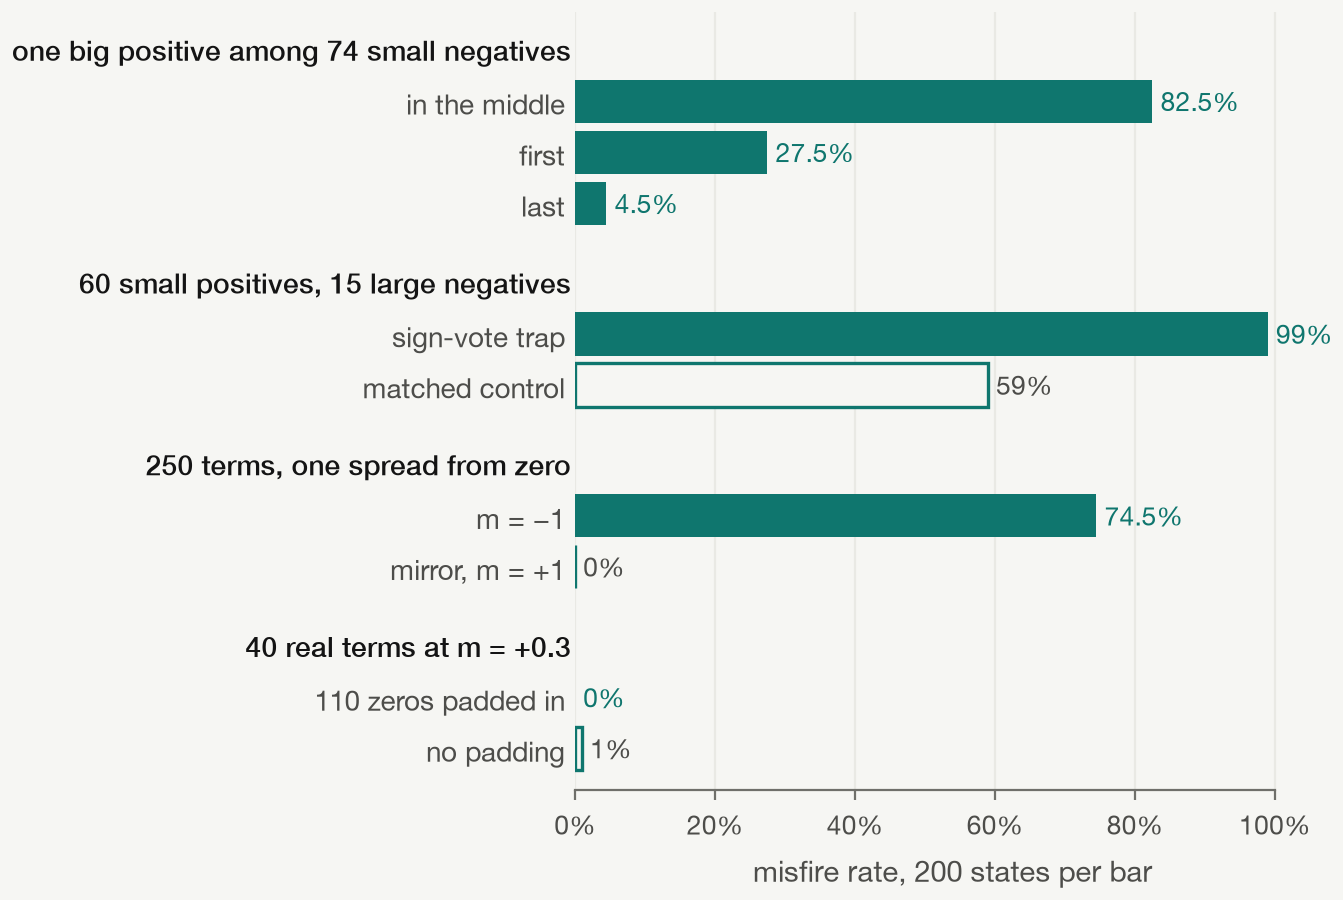
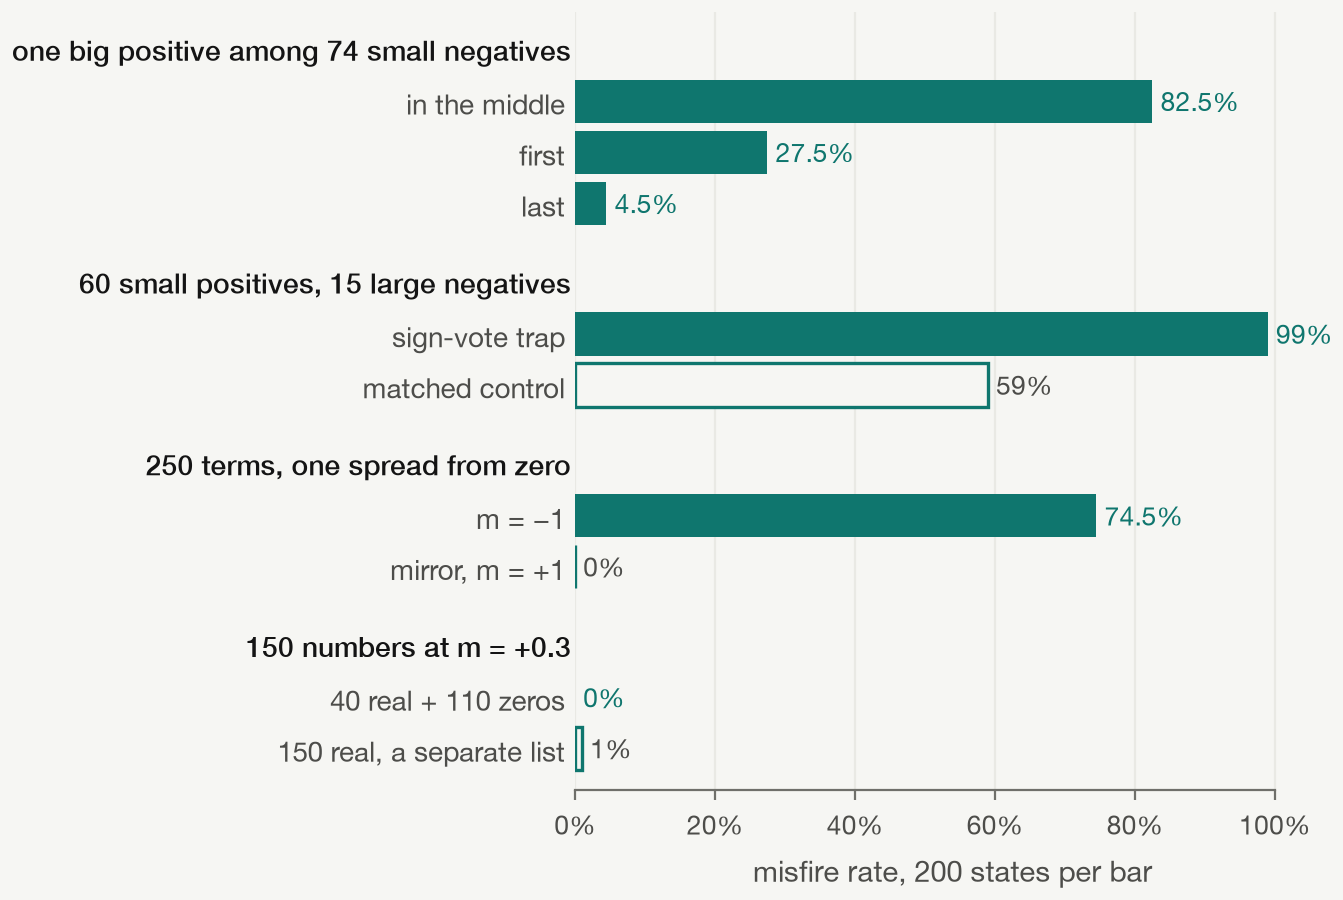
:bug: fix[analysis]: graded simulator's real misfire rate; padding trap labels; 31.2 and 35.6

Changed region(s): [[0.1832, 0.6844, 0.4274, 0.8711]]

diff --git a/src/jevrons/stage6c.py b/src/jevrons/stage6c.py
@@ -137,6 +137,15 @@ def sign_disagreement(wa, ws, X):
     return float(np.mean(((X @ wa[0] + wa[1]) > 0) != ((X @ ws[0] + ws[1]) > 0)))
 
 
+def misfire(w, X, neuron):
+    """Hidden misfire rate under a CurveNeuron as the network sees it: a graded neuron's p is deterministic, so count
+    the answers on the wrong side of 0.5; a sampled one flips a coin, so take its expectation."""
+    if not neuron.graded:
+        return expected_misfire(w, X, neuron)
+    z = X @ w[0] + w[1]
+    return float(np.mean((z > 0) != (neuron(X, w[0], w[1]) >= 0.5)))
+
+
 def expected_misfire(w, X, neuron):
     """Mean P(hidden answer disagrees with the true sign) under a CurveNeuron (its expectation, not a sample)."""
     z = X @ w[0] + w[1]
@@ -206,7 +215,7 @@ def run_bend():
                 gap = 100 * (SWAP38_EXACT - np.mean([acc(twin, Xv, yv, e) for e in ev]))
                 res["sim"][f"{'graded' if graded else 'binary'} lam={lam} seed={seed}"] = {
                     "graded": graded, "lam": lam, "seed": seed, "swap_gap_pts": float(gap),
-                    "twin_hidden_misfire": expected_misfire(twin, Xv, nrn), "trained_hidden_misfire": expected_misfire(wa, Xv, nrn),
+                    "twin_hidden_misfire": misfire(twin, Xv, nrn), "trained_hidden_misfire": misfire(wa, Xv, nrn),
                     "trained_acc_on_neuron": float(np.mean([acc(wa, Xv, yv, e) for e in ev])),
                     "bend": bend(i5, wa, twin), "hidden_sign_disagreement_val": sign_disagreement(wa, twin, Xv), "_w": wa}
     # noise floor: two binary runs at the same lam differ only in the neuron's coin flips

diff --git a/src/jevrons/figures.py b/src/jevrons/figures.py
@@ -797,9 +797,9 @@ def traps():
               ("250 terms, one spread from zero", [
                   ("m = −1", fam["long"]["trap_misfire"], True),
                   ("mirror, m = +1", fam["long"]["control_misfire"], False)]),
-              ("40 real terms at m = +0.3", [
-                  ("110 zeros padded in", fam["zeros"]["trap_misfire"], True),
-                  ("no padding", fam["zeros"]["control_misfire"], False)])]
+              ("150 numbers at m = +0.3", [
+                  ("40 real + 110 zeros", fam["zeros"]["trap_misfire"], True),
+                  ("150 real, a separate list", fam["zeros"]["control_misfire"], False)])]
     fig, ax = S.figure(4.5)
     y, ticks, labels = 0, [], []
     for head, bars in groups:

diff --git a/docs/results/stage6c-weights-probe.md b/docs/results/stage6c-weights-probe.md
@@ -2,7 +2,7 @@
 
 2026-09-27 · offline only · no Jev or Ollaya calls · $0
 
-A more faithful neuron does give weights closer to the exact solution, but only at the ends of the range, and Jev arms bend much farther than their neuron's misfire rate explains. On 3 vs 8, the plain Jev network's first-layer change is 1.77× its exact twin's change away from it. Arm E, the most faithful Jev neuron (swap gap 4.6 points), still bends 1.13; fine-tuned laya (gap 1 point) bends 0.31. A simulated neuron with Jev's own measured curve and the same misfire rate bends only 0.58 (graded p) or 0.88 (sampled yes/no). The weights don't read out Jev's threshold drift. The upward drift of Jev-trained sums that [Jev's quirks](stage6b-jev-quirks.md) couldn't explain does reproduce in simulation, and the cause is Jev's p never reaching 0 or 1, not its yes-lean.
+A more faithful neuron does give weights closer to the exact solution, but only at the ends of the range, and Jev arms bend much farther than their neuron's misfire rate explains. On 3 vs 8, the plain Jev network's first-layer change is 1.77× its exact twin's change away from it. Arm E, the most faithful Jev neuron (swap gap 4.6 points), still bends 1.13; fine-tuned laya (gap 1 point) bends 0.31. A simulated neuron with Jev's own measured curve and a similar misfire rate bends only 0.58 (graded p) or 0.88 (sampled yes/no). The weights don't read out Jev's threshold drift. The upward drift of Jev-trained sums that [Jev's quirks](stage6b-jev-quirks.md) couldn't explain does reproduce in simulation, and the cause is Jev's p never reaching 0 or 1, not its yes-lean.
 
 Code: `src/jevrons/stage6c_calls.py` streams the two-digit, ten-digit and two-question neuron journals' validation and test calls into `runs/stage6c/calls.npz` (804,000 calls, 10 s). `src/jevrons/stage6c.py` runs the analyses (`uv run python -m jevrons.stage6c [bend misfire lean readoff pixels]`, about 2 minutes). Numbers: `runs/stage6c/*.json`.
 
@@ -29,11 +29,11 @@ Two controls were added, both local and both on the two-digit recipe:
 | Laya as a neuron, laya-hidden (scalar) | 42.8 | 65% | 1.62 / 0.28 / 1.58 | 2.38 / 0.52 | 3.87 / −0.42 | 3.1× | 26.3% |
 | Laya as a neuron, all-laya (scalar) | 42.8 | 65% | 1.40 / 0.34 / 1.38 | 1.32 / 0.40 | 1.18 / −0.42 | 0.6× | 26.0% |
 | 10 laya-neuron (sparse, own twin) | 1.0 | 4.5% | 0.31 / 0.95 / 1.02 | 0.12 / 0.99 | 0.32 / 0.95 | 1.1× | 1.8% |
-| Simulated λ = 1, graded | 1.0 | 15.9% | 0.58 / 0.84 / 1.03 | 0.57 / 0.93 | 0.77 / 0.65 | 0.3× | 11.2% |
+| Simulated λ = 1, graded | 1.0 | 14.6% | 0.58 / 0.84 / 1.03 | 0.57 / 0.93 | 0.77 / 0.65 | 0.3× | 11.2% |
 | Simulated λ = 1, sampled (3 seeds) | 7.2 | 15.9% | 0.88 / 0.79 / 1.42 | 0.81 / 0.83 | 0.81 / 0.56 | 1.2× | 18.9% |
 | Simulated λ = 2, sampled | 20.4 | 29.2% | 1.37 / 0.71 / 1.89 | 0.93 / 0.78 | 1.61 / −0.25 | 3.6× | 27.2% |
 
-The b2 column is |Δb2| divided by the twin's |Δb2|. Every arm moves b2 the same way as its twin (downward). Laya's "misfire" in the laya-as-a-neuron runs is scored against the sign, which its V-shaped curve was never meant to follow.
+The graded simulator's misfire counts its deterministic answers on the wrong side of 0.5 (14.6% at λ = 1); the sampled one's is the expected rate of its coin flips (15.9%). The b2 column is |Δb2| divided by the twin's |Δb2|. Every arm moves b2 the same way as its twin (downward). Laya's "misfire" in the laya-as-a-neuron runs is scored against the sign, which its V-shaped curve was never meant to follow.
 
 With the recipe matched, the Jev arms bend 1.43 (B), 1.48 (C), 1.45 (D) and 1.17 (E). The backward pass alone moves an exact twin 0.71-0.90 away from the two-digit twin. B has the same neuron as plain Jev and bends 0.40 less against the shared twin, so the recipe accounts for as much of the plain-vs-two-question difference as the neuron does.
 

diff --git a/docs/results/stage7-more-data.md b/docs/results/stage7-more-data.md
@@ -2,7 +2,7 @@
 
 2026-09-27 · 1.94M calls · $84.71 · Vercel gateway only (TypeSafe direct out of credits)
 
-A 784-32-10 network of Jev neurons trained through Jev gets 84.6% on 2,000 test images. That's up from 68.5% in the first ten-digit run, and it beats the ~77-79% an exact-neuron network reached on 1,000 images when the sum was done in code. Two things changed at once: 5,000 training images instead of 1,000, and arm E from [the two-question neuron](stage8g-neuron-fixes.md) (yes/no and a neutral choice question averaged in one call). One seed, so the two effects aren't separated. The swap control still collapses: the same architecture trained with an exact neuron gets 83.9% on an exact neuron and 52.6% on Jev, a 31.3-point gap (first ten-digit run: 28.8).
+A 784-32-10 network of Jev neurons trained through Jev gets 84.6% on 2,000 test images. That's up from 68.5% in the first ten-digit run, and it beats the ~77-79% an exact-neuron network reached on 1,000 images when the sum was done in code. Two things changed at once: 5,000 training images instead of 1,000, and arm E from [the two-question neuron](stage8g-neuron-fixes.md) (yes/no and a neutral choice question averaged in one call). One seed, so the two effects aren't separated. The swap control still collapses: the same architecture trained with an exact neuron gets 83.9% on an exact neuron and 52.6% on Jev, a 31.2-point gap (83.85% − 52.65%) (first ten-digit run: 28.8).
 
 Code: `src/jevrons/stage7.py`. Results, weights, curves: `runs/stage7/`. The journal isn't published.
 

diff --git a/docs/results/stage8c-mock-pretrain.md b/docs/results/stage8c-mock-pretrain.md
@@ -39,7 +39,7 @@ Arm E's graded p is much softer than the margin probe's fire curve (λ = 4.5 mea
 
 Training spend counts only training calls. Each validation pass cost $0.93 and each test pass $1.86. With evaluations, this run cost $8.34 and the pretrained-only test $1.86. At equal Jev training spend ($3.7, two epochs), pretrain plus fine-tune leads Jev-only training by 5 points on validation (83.4% against 78.4%). Jev-only training needed two and a half to three times the spend to reach the same validation accuracy.
 
-SimE was a good predictor of Jev for SimE-trained weights: 84.8% on SimE against 83.8% on Jev (test). It was a bad one for exact-trained weights. The local check put the sparse network's configuration trained exact at 35.0% on SimE, and on Jev it got 66.4%. SimE is harsher than Jev on a network that never saw a graded neuron.
+SimE was a good predictor of Jev for SimE-trained weights: 84.8% on SimE against 83.8% on Jev (test). It was a bad one for exact-trained weights. The six-epoch exact-trained sparse network that ran on Jev gets 35.6% on SimE (validation), and 66.4% on Jev. (The local check's own ten-epoch exact network got 35.0% on SimE.) SimE is harsher than Jev on a network that never saw a graded neuron.
 
 ## Per digit (test)
 

diff --git a/docs/results/stage6b-jev-quirks.md b/docs/results/stage6b-jev-quirks.md
@@ -110,7 +110,7 @@ Three traps beat their controls: the sign vote, the long-list yes-lean, and a bi
 
 The position family went the opposite way to its prediction. The error model suggested the final number is overweighted, so a big positive number in the bias slot should drag Jev to yes. Instead, the identical list fools Jev 82.5% of the time when the big number is in the middle, 27.5% when it's first, and 4.5% when it's last. Jev seems to take in a dominant number at either end correctly and misjudge one buried among small terms. The data doesn't say why. The regression's bias-slot weight comes from small natural biases and doesn't extrapolate to one number carrying 98% of the spread.
 
-Zero padding changed nothing, so the large zero-share coefficient in section 1 is a confound in the trained-network data, not a property of Jev.
+Padded lists (40 real terms and 110 zeros) misfired on 0% of states against 1% for separately generated 150-term lists with the same total and spread. That isn't the same list before and after padding, but zeros didn't make Jev worse, so the large zero-share coefficient in section 1 is more likely a confound in the trained-network data than a property of Jev.
 
 ## 5. Weight maps and what training changed
 
